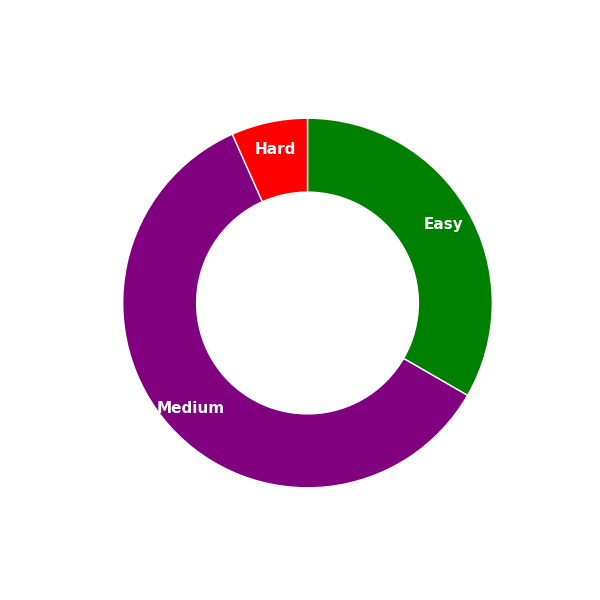
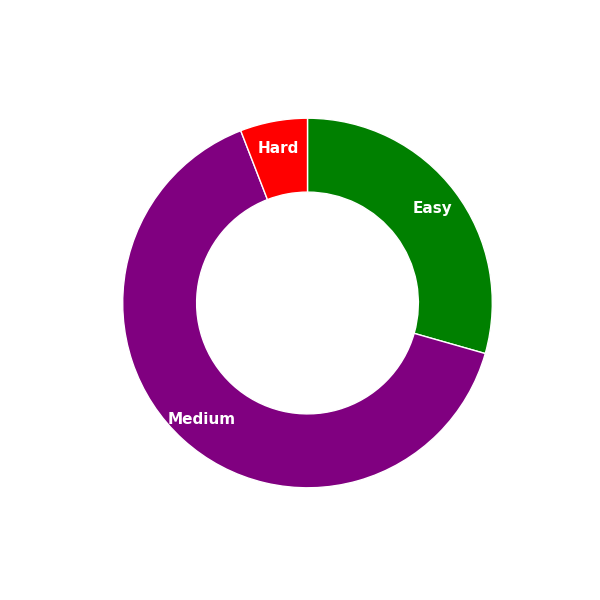
Update medium problem count and refresh progress chart image

diff --git a/README.md b/README.md
@@ -28,7 +28,7 @@ leetcode-solutions/
 | Difficulty | Solved |
 | ---------- | ------ |
 | Easy       | 05     |
-| Medium     | 09     |
+| Medium     | 11     |
 | Hard       | 01     |
 
 # Progress Chart
